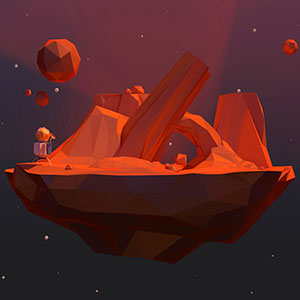
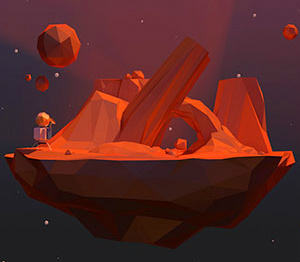
优化用户体验和样式

diff --git a/app/uploaders/products_cover_uploader.rb b/app/uploaders/products_cover_uploader.rb
@@ -20,11 +20,11 @@ class ProductsCoverUploader < CarrierWave::Uploader::Base
     '/assets/default/product'
   end
 
-  process resize_to_fill: [360, 360]
+  process resize_to_fill: [360, 315]
 
   # Create different versions of your uploaded files:
   version :thumb do
-      process resize_to_fill: [200, 200]
+      process resize_to_fill: [240, 210]
   end
 
   def filename
